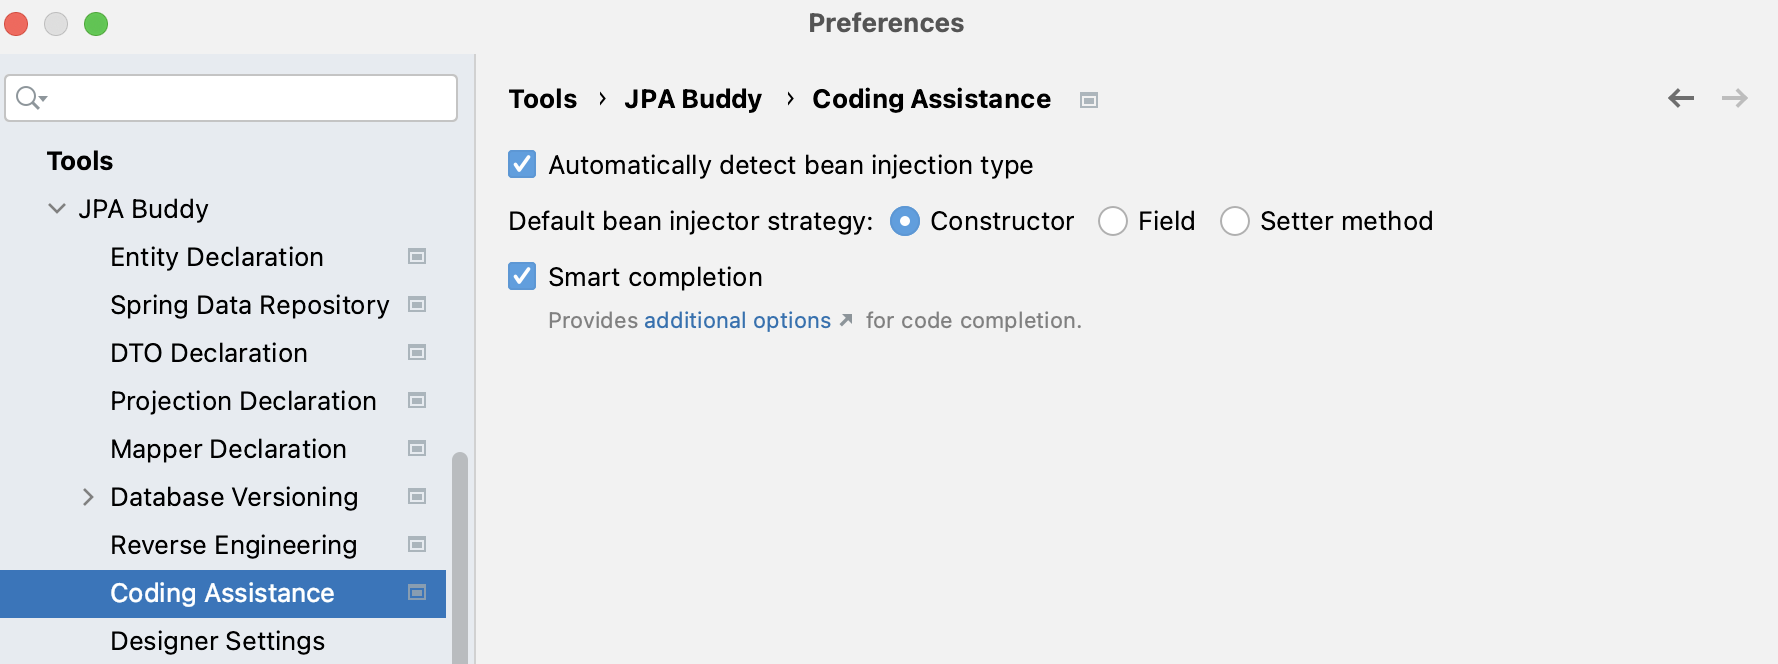
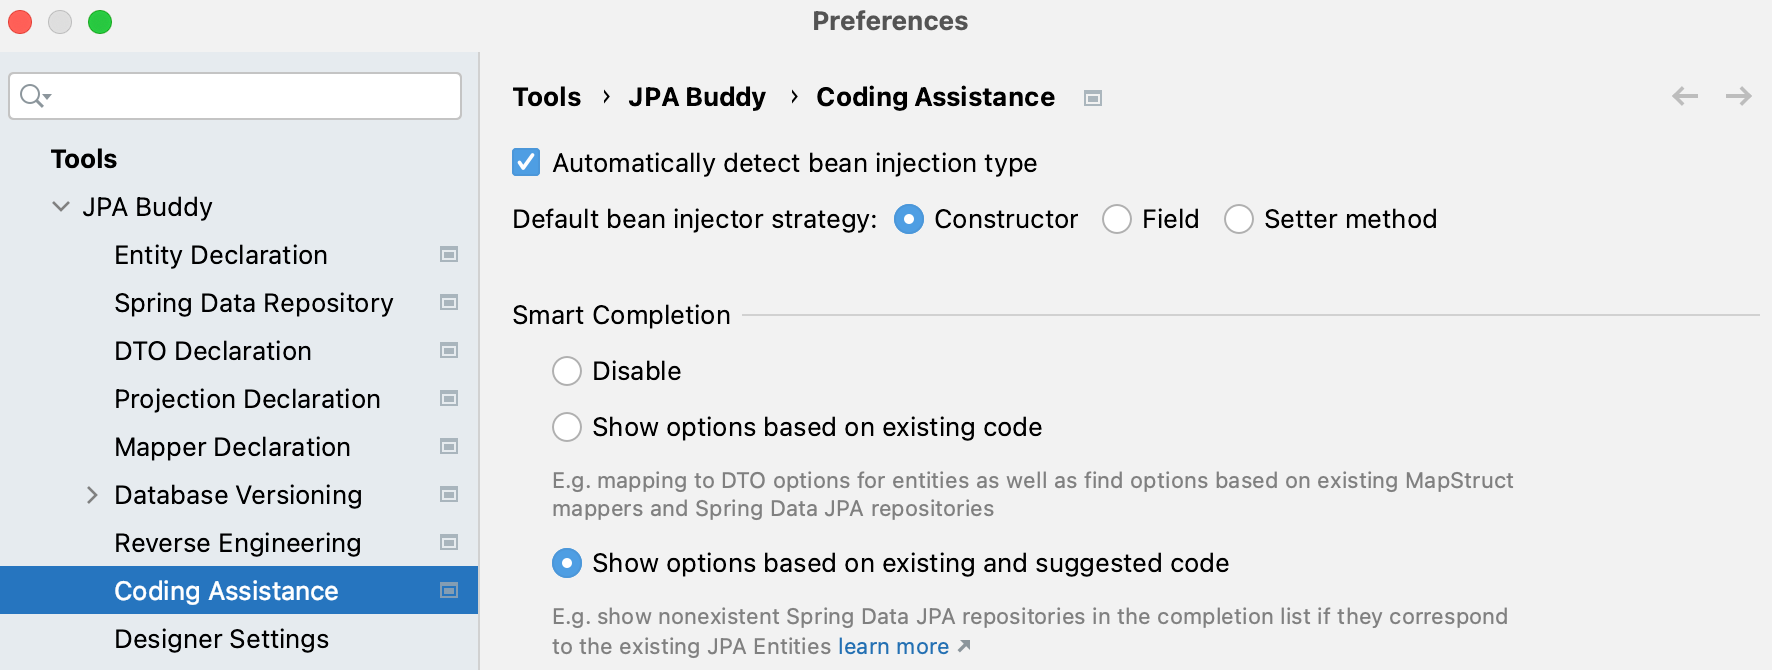
Improve smart completions configurability #114

diff --git a/coding-assistance/coding-assistance.md b/coding-assistance/coding-assistance.md
@@ -73,6 +73,6 @@ All the features that Java developers love are also available to Kotlin fans. Wh
 JPA Buddy provides flexible settings to make the use of coding assistance features even more handful. You can:
 1) Enable/disable automatic detection for bean injection type;
 2) Define the [bean injection strategy](https://docs.spring.io/spring-framework/docs/current/reference/html/core.html#beans-factory-collaborators) that JPA Buddy will follow while code generation;
-3) Whether to use the smart completion features or not.
+3) Configure whether to use the smart completion features or not.
 
 ![settings-coding-assistance](img/settings-coding-assistance.png)
